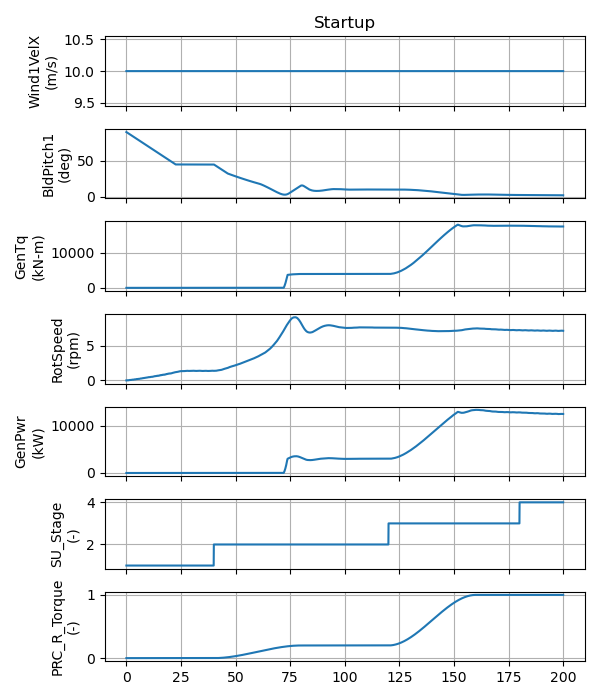
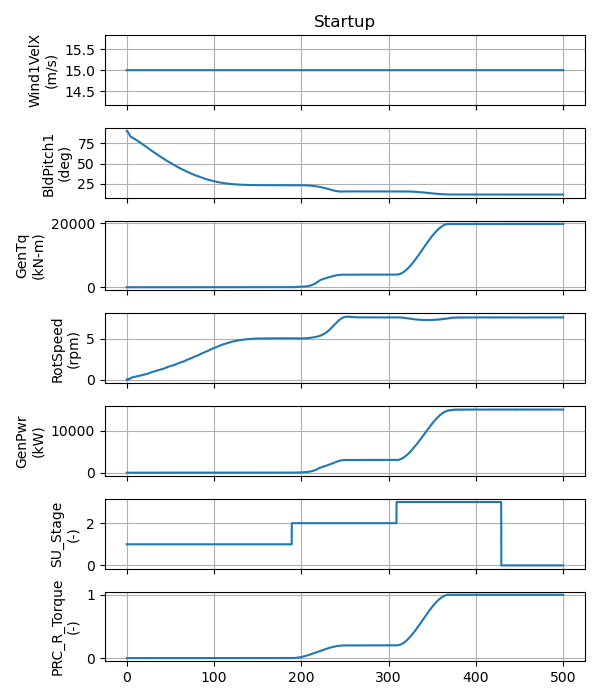
Startup: Modify startup example and figure for docs

diff --git a/Examples/32_startup.py b/Examples/32_startup.py
@@ -7,8 +7,8 @@ The states are as follows:
 
 * Stage 1: Free-Wheeling of rotor
     
-    In this stage the generator torque is 0 (set using ``PRC_R_Torque = 0``), the blade pitch angles are set to ``SU_FW_Pitch`` and the rotor is free to rotate.
-    The rotor continues to free-wheel until the rotor speed exceeds ``SU_RotorSpeedThresh`` and has stayed in Stage 1 for at least ``SU_FW_MinDuration`` seconds.
+    In this stage the generator torque is 0 (set using ``PRC_R_Torque = 0``) and the rotor is free to rotate.
+    The rotor continues to free-wheel until the rotor speed exceeds ``0.95 * SU_RotorSpeedThresh`` and stay above it for at least ``SU_FW_MinDuration`` seconds.
     Once both these criteria are met, the startup procedure enters the next stage.
 
 * Stage 2 - [``SU_LoadStages_N`` + 2]: 
@@ -20,7 +20,9 @@ The states are as follows:
     The duration of the ramp is determined by the ``SU_LoadRampDuration`` array.
     Then, the ``PRC_R_Torque`` held constant at the current level for a period of time (``SU_LoadHoldDuration``).
 
+
 The stage is stored in a ROSCO local variable ``SU_LoadStage``.
+After the startup procedure is complete, ``SU_LoadStage`` resets to 0. 
 
 The following figure demonstrate the startup procedure
 
@@ -42,7 +44,7 @@ this_dir = os.path.dirname(os.path.abspath(__file__))
 example_out_dir = os.path.join(this_dir, "examples_out")
 os.makedirs(example_out_dir, exist_ok=True)
 
-FULL_TEST = True
+FULL_TEST = False
 
 
 def main():
@@ -54,15 +56,16 @@ def main():
     controller_params["DISCON"] = {}
     controller_params["DISCON"]["Echo"] = 1
     controller_params["LoggingLevel"] = 3
+    
     controller_params["SU_Mode"] = 1
-    controller_params["DISCON"]["SU_FW_Pitch"] = 15.0 * np.pi / 180.0
-    controller_params["DISCON"]["SU_FW_MinDuration"] = 120.0
+    controller_params["DISCON"]["SU_FW_MinDuration"] = 60.0
     controller_params["DISCON"]["SU_RotorSpeedThresh"] = 5.0 * (2 * np.pi) / 60.0       # This should be close to minimum rotor speed
-
     controller_params["DISCON"]["SU_LoadStages_N"] = 2
     controller_params["DISCON"]["SU_LoadStages"] = [0.2, 1]
-    controller_params["DISCON"]["SU_LoadRampDuration"] = [60, 120]
-    controller_params["DISCON"]["SU_LoadHoldDuration"] = [120, 120]
+    controller_params["DISCON"]["SU_LoadRampDuration"] = [60, 60]
+    controller_params["DISCON"]["SU_LoadHoldDuration"] = [60, 60]
+
+    
 
     # simulation set up
     r = run_FAST_ROSCO()
@@ -77,13 +80,13 @@ def main():
     r.case_inputs[("ElastoDyn", "PtfmPDOF")] = {"vals": ["False"], "group": 0}
     r.case_inputs[("ElastoDyn", "PtfmYDOF")] = {"vals": ["False"], "group": 0}
 
-    run_dir = os.path.join(example_out_dir, "32_startup_demo/2_step_pitch_down")
+    run_dir = os.path.join(example_out_dir, "32_startup_demo")
 
     # Wind case
     r.wind_case_fcn = cl.power_curve
     r.wind_case_opts = {
-        "U": [10],
-        "TMax": 300,
+        "U": [5,15],
+        "TMax": 500,
     }
     if not FULL_TEST:
         r.wind_case_opts["TMax"] = 2
@@ -100,11 +103,16 @@ def main():
     r.run_FAST()
 
     # Plot output
-    outfile = [os.path.join(run_dir, "IEA15MW_0.outb")]
+    outfile0 = [os.path.join(run_dir, "IEA15MW_0.outb")]
+    outfile1 = [os.path.join(run_dir, "IEA15MW_1.outb")]
     cases = {}
     cases["Baseline"] = ["Wind1VelX", "BldPitch1", "GenTq", "RotSpeed", "GenPwr"]
     fast_out = output_processing.output_processing()
-    fastout = fast_out.load_fast_out(outfile)
+    
+    fast_out.load_fast_out(outfile0)
+    fast_out.plot_fast_out(cases=cases, showplot=False)
+
+    fast_out.load_fast_out(outfile1)
     fast_out.plot_fast_out(cases=cases, showplot=False)
 
     plt.savefig(os.path.join(example_out_dir, "32_startup.png"))
